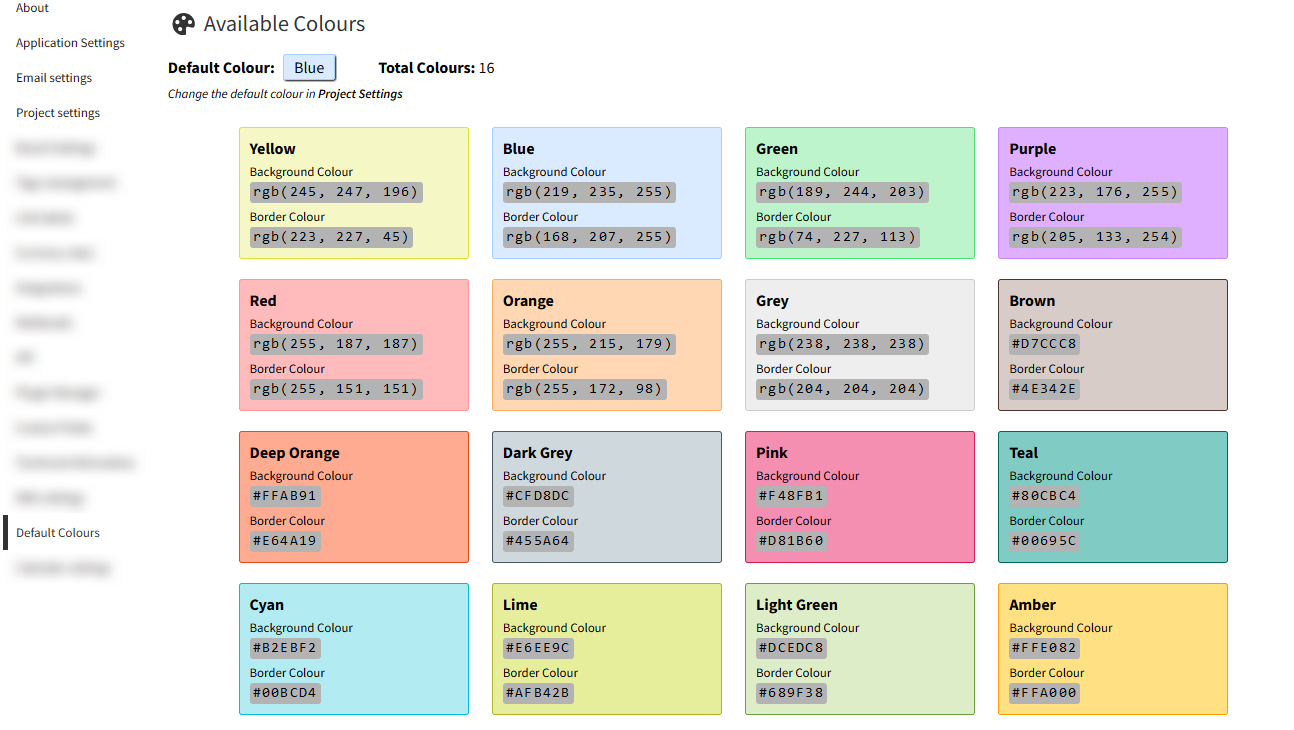
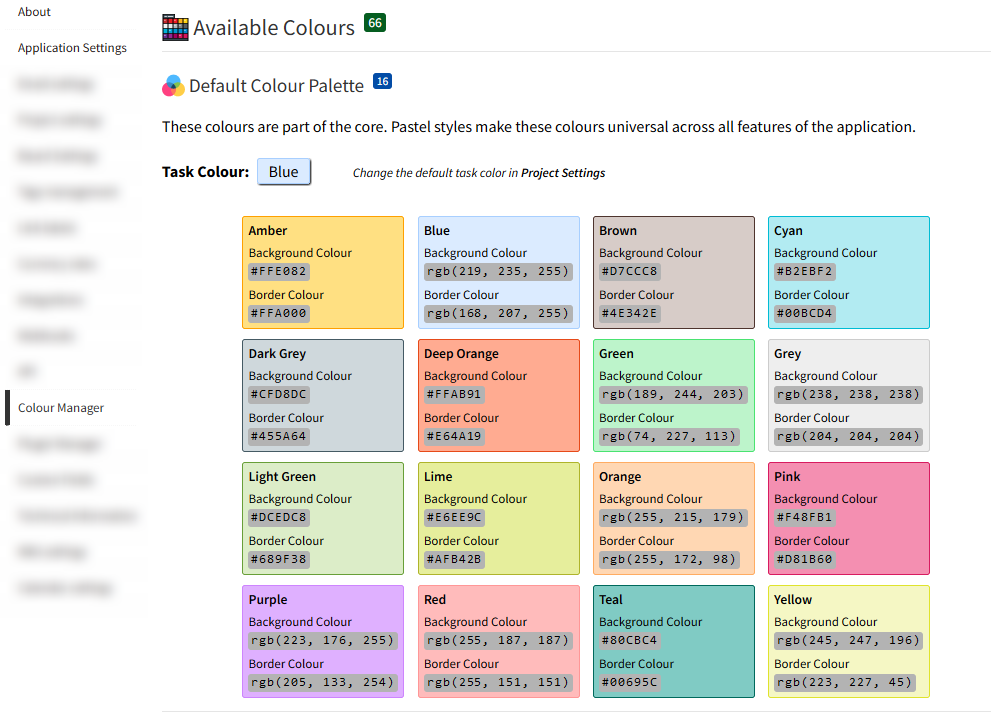
Update README.md

diff --git a/README.md b/README.md
@@ -18,8 +18,10 @@ Features
 - Display CSS properties for each color (background color, border color)
 
 **Extra Color Palette**  
-- 50+ New colors included
+- **_50 New deep, rich and vibrant colors_**
+- Perfect for tasks, tags and categories
 - Solid `white` color included
+- Solid `black` color included
 - Extended colors including text color
 - Display CSS properties for each color (background color, border color, font color)
 
@@ -53,7 +55,7 @@ Screenshots
 Usage
 -------------
 
-Go to `Settings` &#10562; `Colors`
+Go to `Settings` &#10562; `Color Manager`
 
 
 Compatibility
